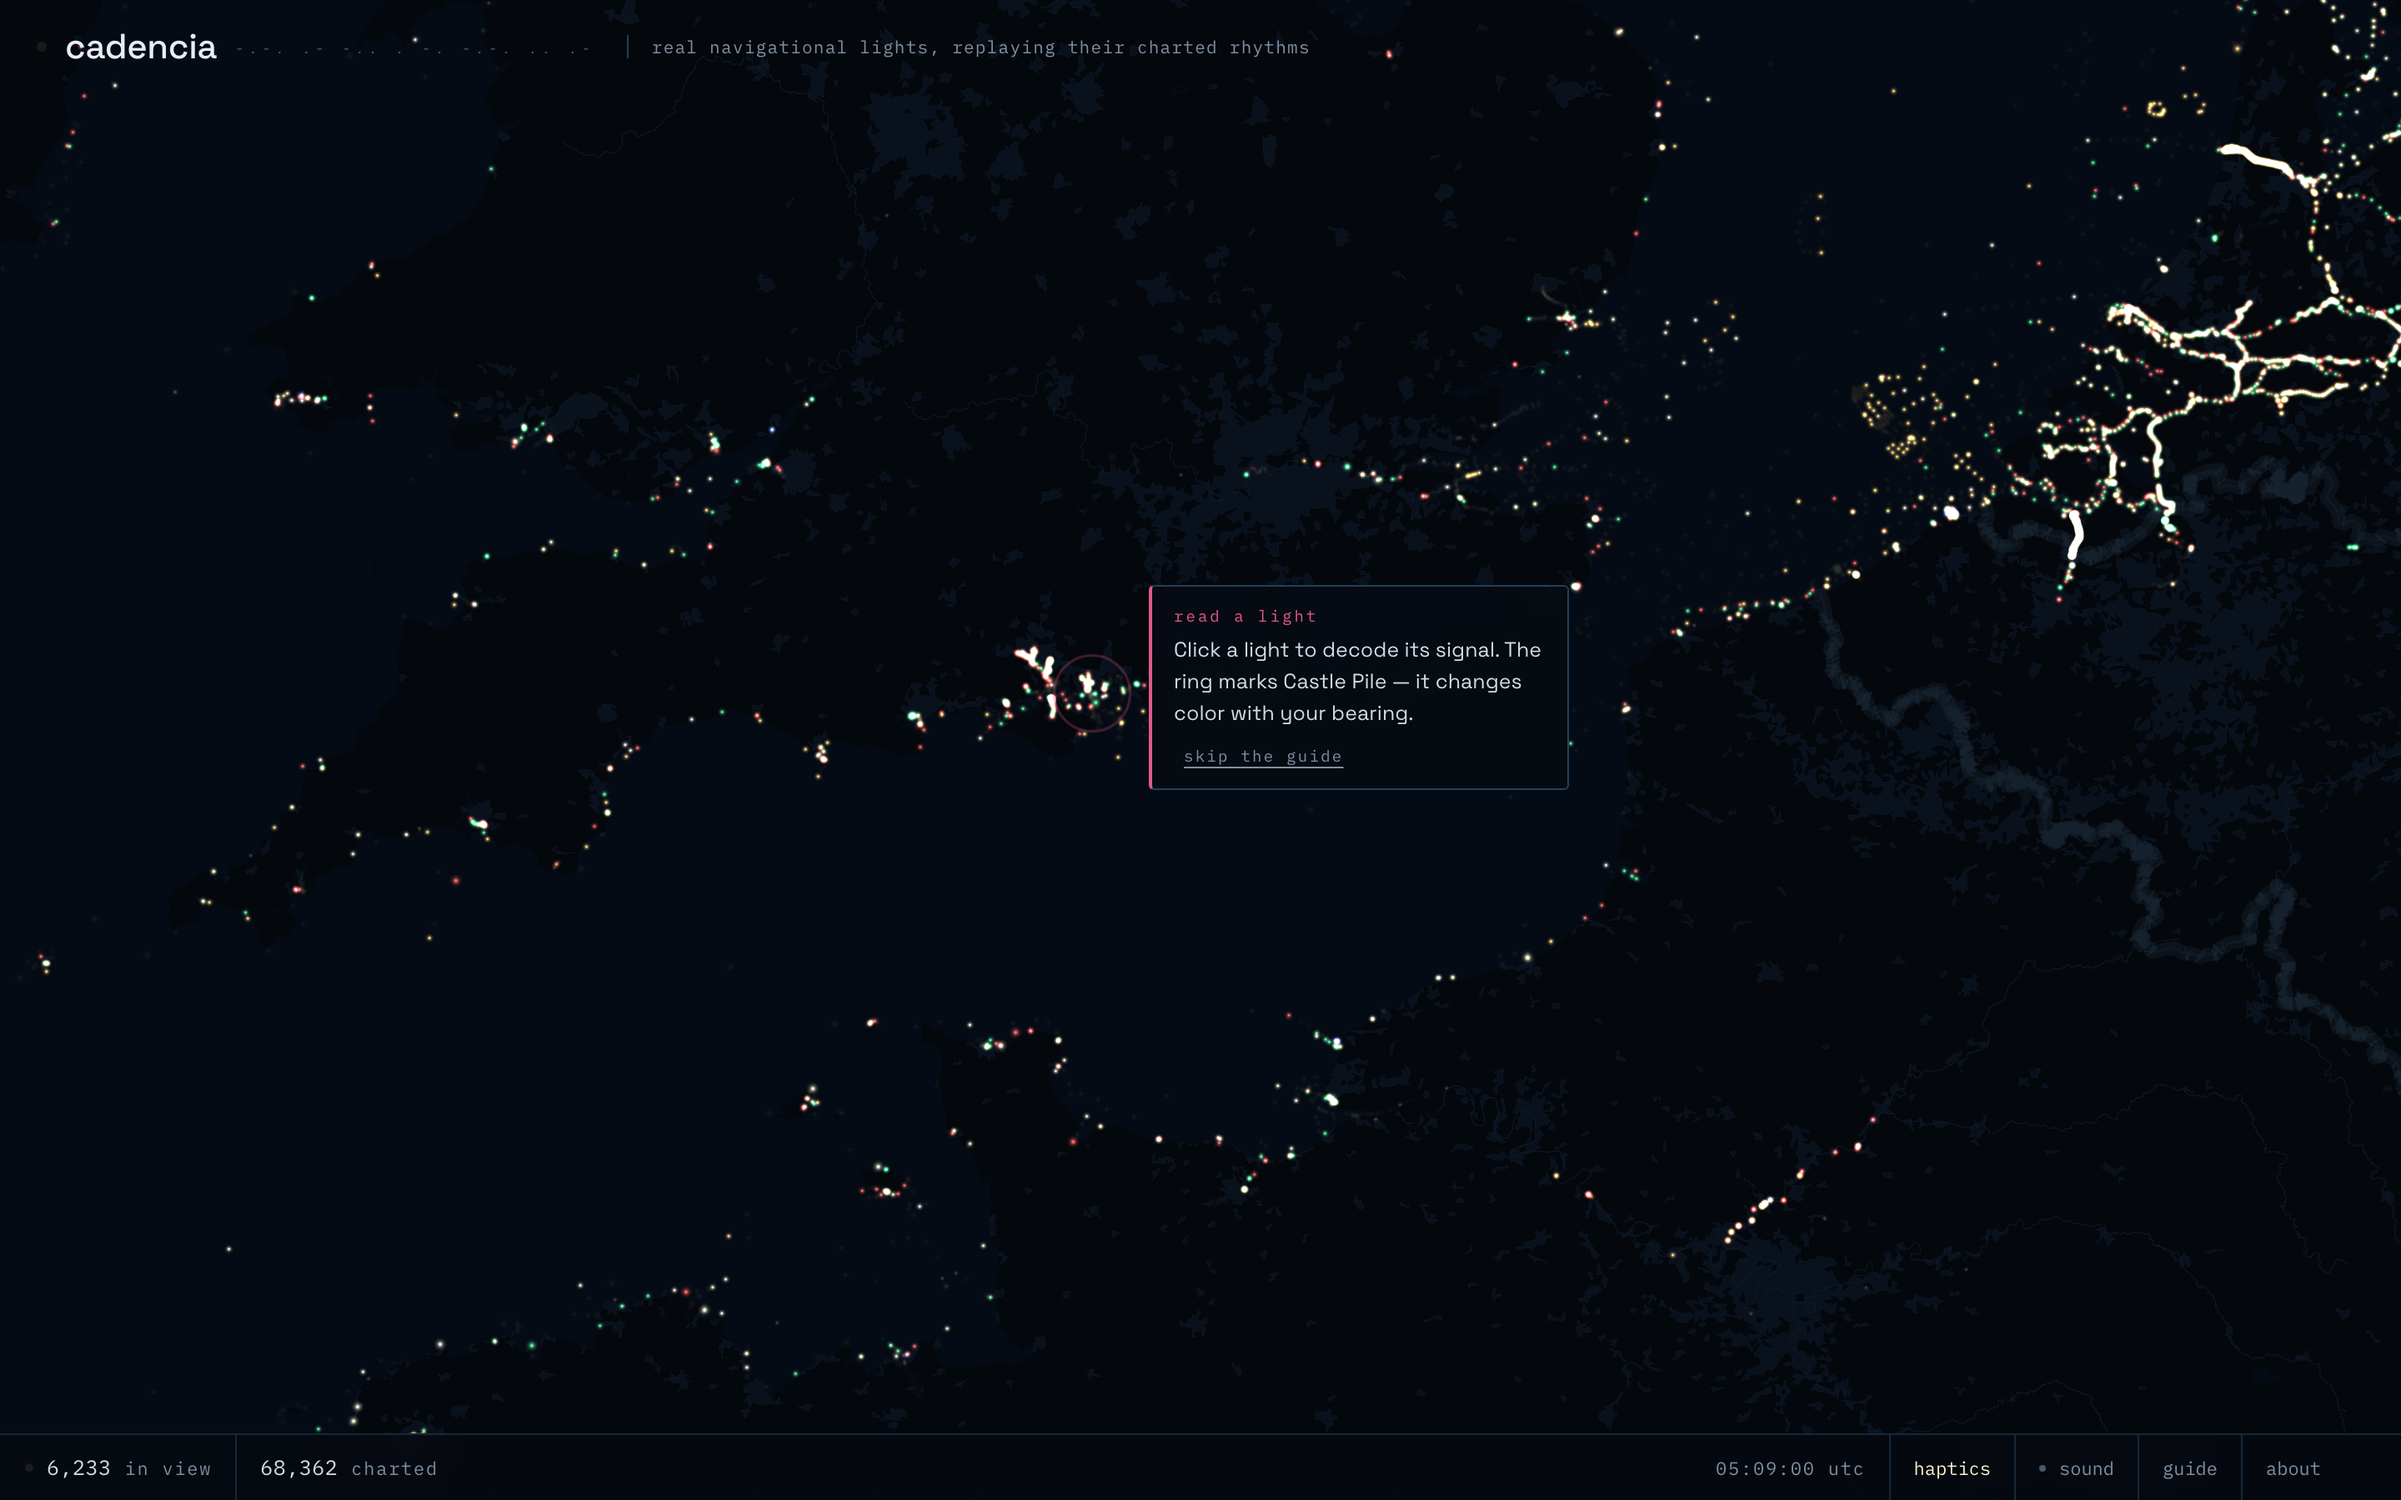
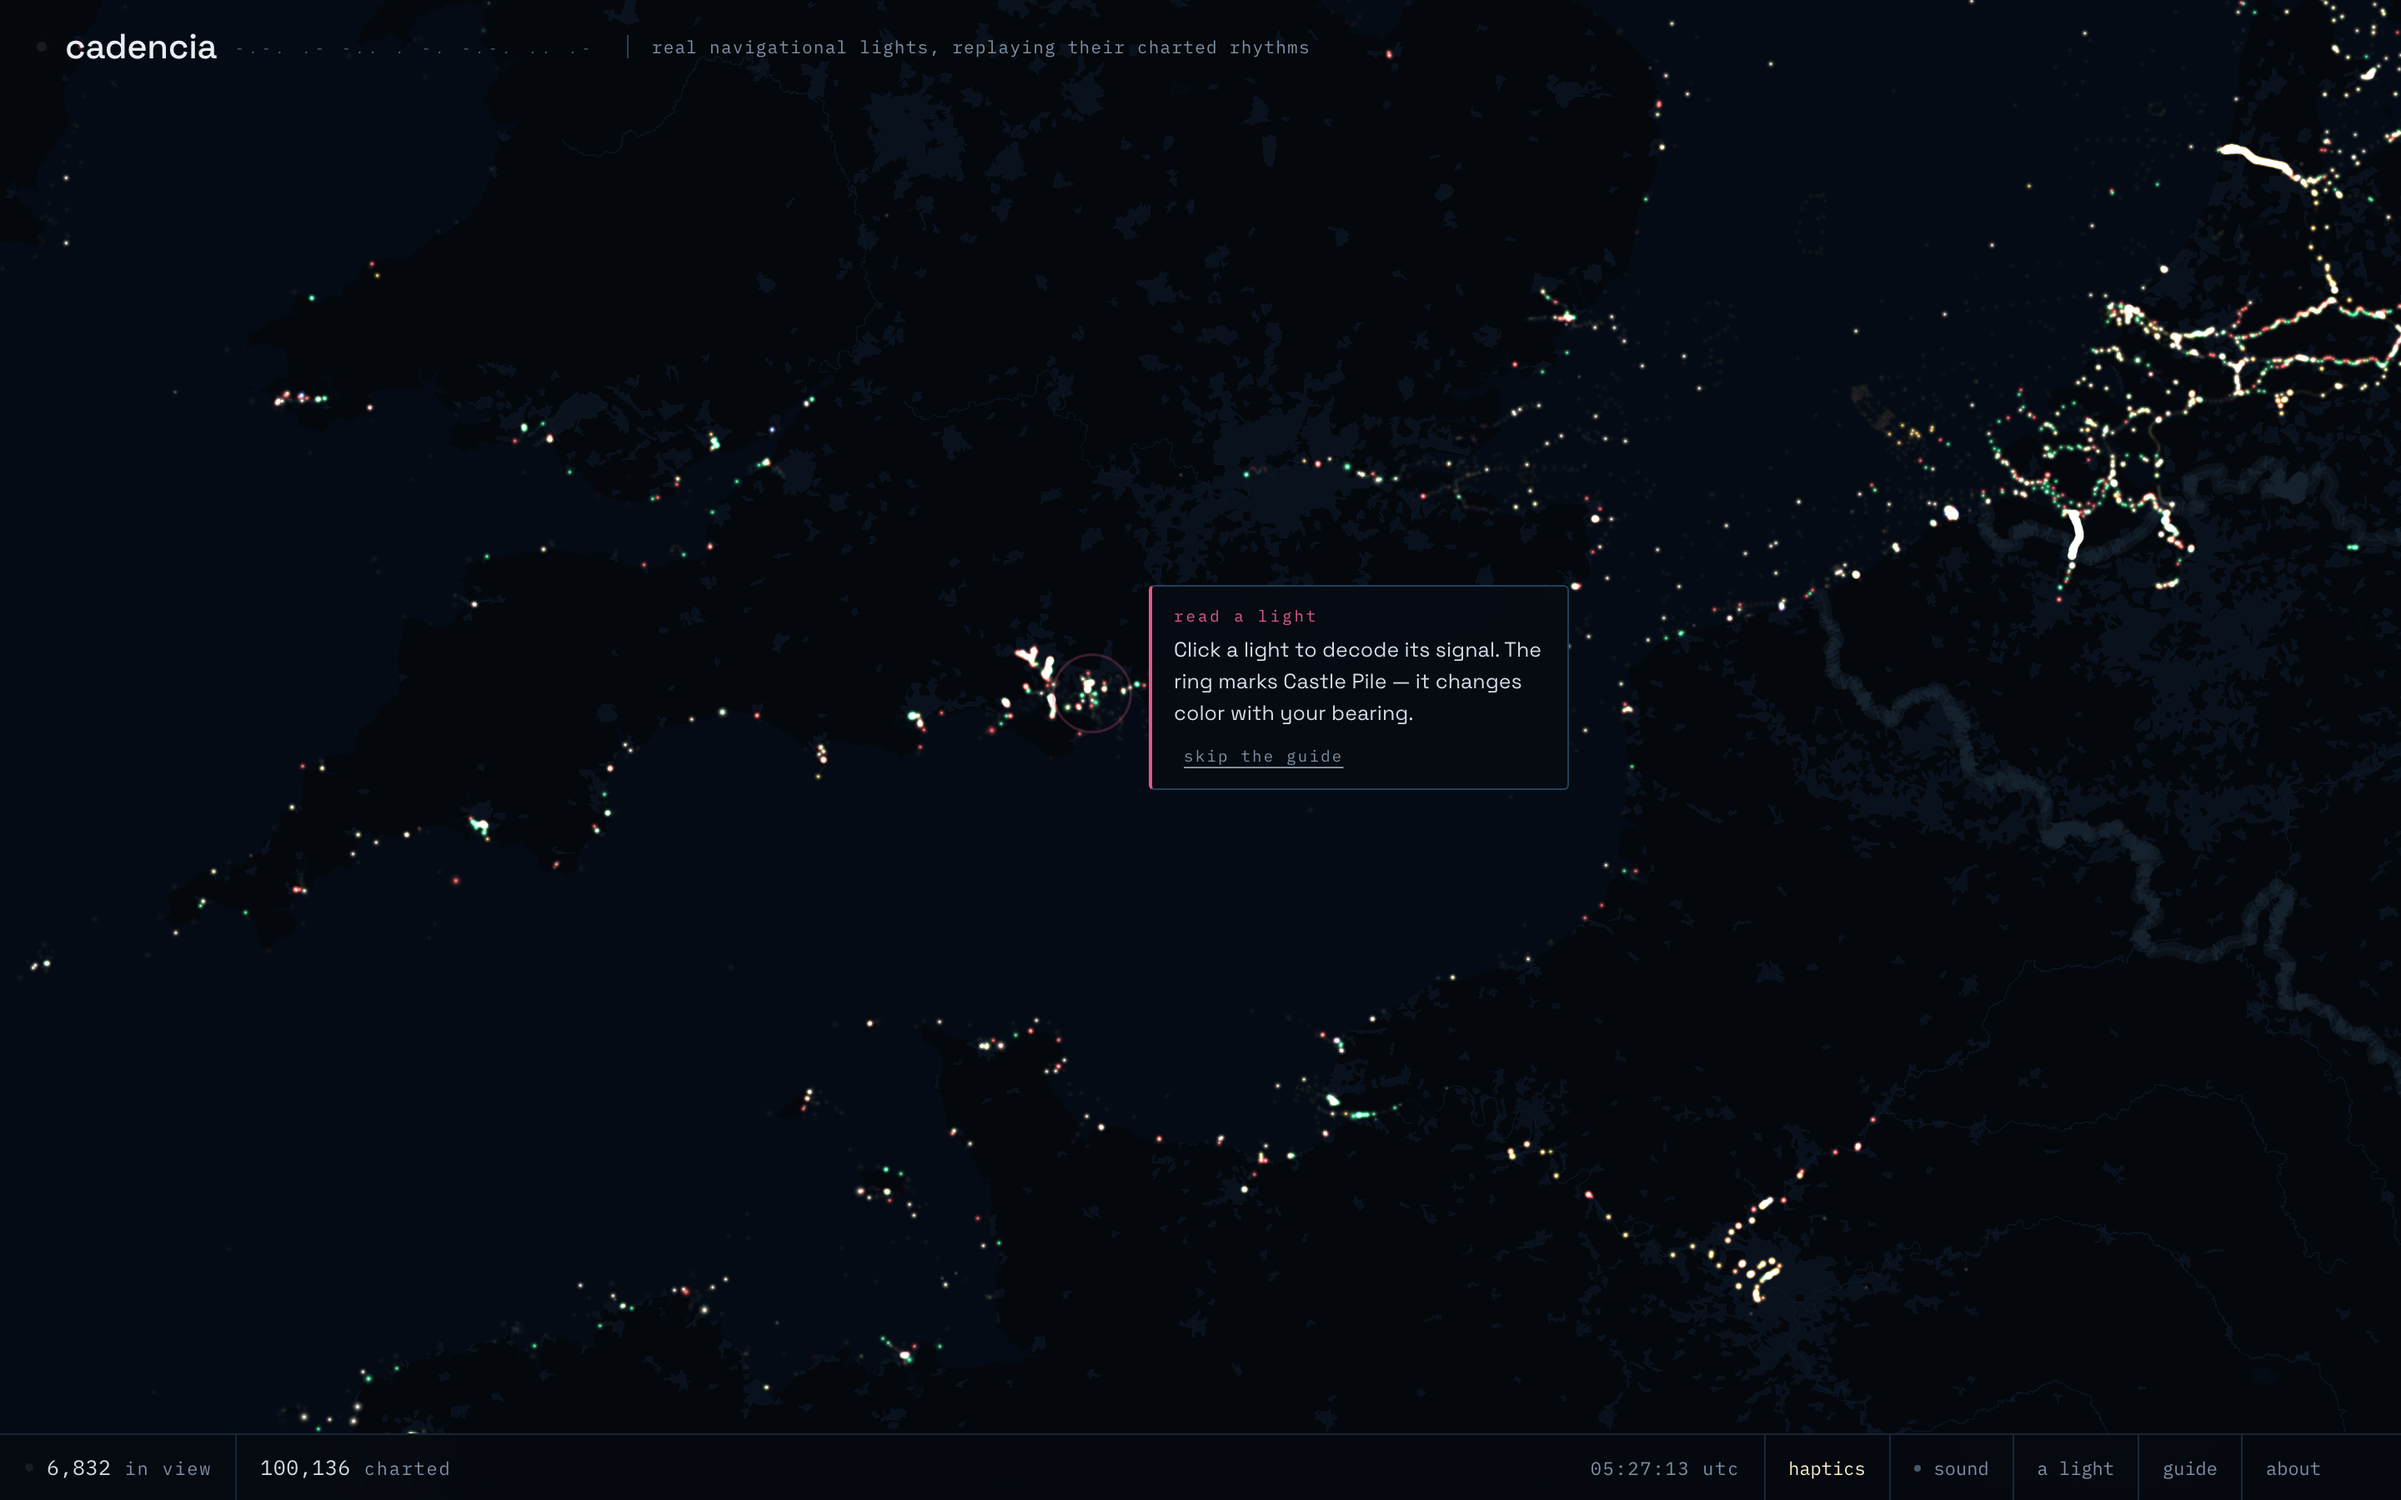
Docs assets, SPA 404, README updates, tighter mobile dock
Generated with [Devin](https://devin.ai)

diff --git a/src/index.css b/src/index.css
@@ -111,8 +111,12 @@ canvas.map-wrap { width: 100%; height: 100%; } /* replaced element: inset alone 
 
 @media (max-width: 640px) {
   .dock { font-size: 10.5px; padding-right: 30px; }
-  .dock .cell { padding: 0 10px; }
+  .dock .cell { padding: 0 8px; }
   .dock .cell.utc { display: none; }
+}
+@media (max-width: 480px) {
+  .dock { font-size: 9.8px; }
+  .dock .cell { padding: 0 6px; gap: 5px; }
 }
 
 /* ---------- light sheet: a light-list entry risen from the bottom ---------- */

diff --git a/README.md b/README.md
@@ -2,9 +2,9 @@
 
 **Every charted lighthouse on Earth, blinking its real coded rhythm, on one dark sea.**
 
-cadencia is a live nautical chart of the ~62,000 navigational lights recorded in
+cadencia is a live nautical chart of the ~100,000 navigational lights recorded in
 OpenStreetMap. Every dot is a real seamark — a lighthouse, a buoy, a leading
-light — and it blinks the exact pattern a mariner would see: `Fl(3) 15s` flashes
+light — and it blinks the pattern a mariner would see: `Fl(3) 15s` flashes
 three times every fifteen seconds, `Oc(2)WRG` eclipses twice and changes color
 with your bearing, `Mo(A)` taps out morse alpha. Nothing is animated by hand;
 the data carries its own timeline, and every viewer sees the same sea at the
@@ -14,9 +14,11 @@ same second.
 
 - **Data** — `pipeline/fetch.mjs` walks the planet in 20° tiles against the
   Overpass API, collecting every object tagged `seamark:light:character` plus
-  uncharted `man_made=lighthouse` towers, then `pipeline/build-shards.mjs`
-  deduplicates them and packs the result into static 5°×10° JSON shards under
-  `public/lights/`. The browser loads only the shards under the viewport.
+  uncharted `man_made=lighthouse` towers; `pipeline/fetch-num.mjs` follows with
+  the numbered `seamark:light:N:*` sub-lights that carry sector arcs. Then
+  `pipeline/build-shards.mjs` deduplicates everything and packs it into static
+  5°×10° JSON shards under `public/lights/`. The browser loads only the shards
+  under the viewport.
 - **The language of lights** — `src/iala.ts` is a small IALA light-characteristic
   parser: character (`Fl`, `Oc`, `Iso`, `LFl`, `Q`, `VQ`, `UQ`, `Mo`, `Al`, `FFl`),
   groupings, colors, periods, explicit `sequences` like `0.5+(4.5)`, and
@@ -28,9 +30,13 @@ same second.
   clocks tick off one shared UTC beat. Daylight genuinely dims the field — the
   shader checks the subsolar point, because a light competes with the sun.
 - **The vessel** — sectored lights (the famous WRG leading lights) show
-  different colors to different bearings. Click one and a small vessel appears;
-  drag it around the light and the color, the sector arcs, and the card all
-  answer like a real approach.
+  different colors to different bearings. Select one and a vessel spawns on
+  open water beside it; drag it — or drag the rose on the sheet, or steer with
+  arrow keys — and the color, the sector arcs, the notation, and the chart dot
+  itself all answer like a real approach.
+- **Shareable** — the URL hash carries `#lat,lon,zoom/light-id`, so any view and
+  any selected light is a link. `save card` renders a PNG of the sheet in the
+  chart's own visual language.
 
 ## run it
 
@@ -43,8 +49,9 @@ To rebuild the data from scratch (takes a while, it's the whole planet):
 
 ```bash
 node pipeline/fetch.mjs          # tiled Overpass crawl -> pipeline/cache/
+node pipeline/fetch-num.mjs      # numbered sub-light crawl -> pipeline/cache-num/
 node pipeline/build-shards.mjs   # -> public/lights/*.json + index.json
-node test/iala.test.mjs          # parser tests
+node --test test/*.test.mjs      # parser tests
 ```
 
 ## stack
